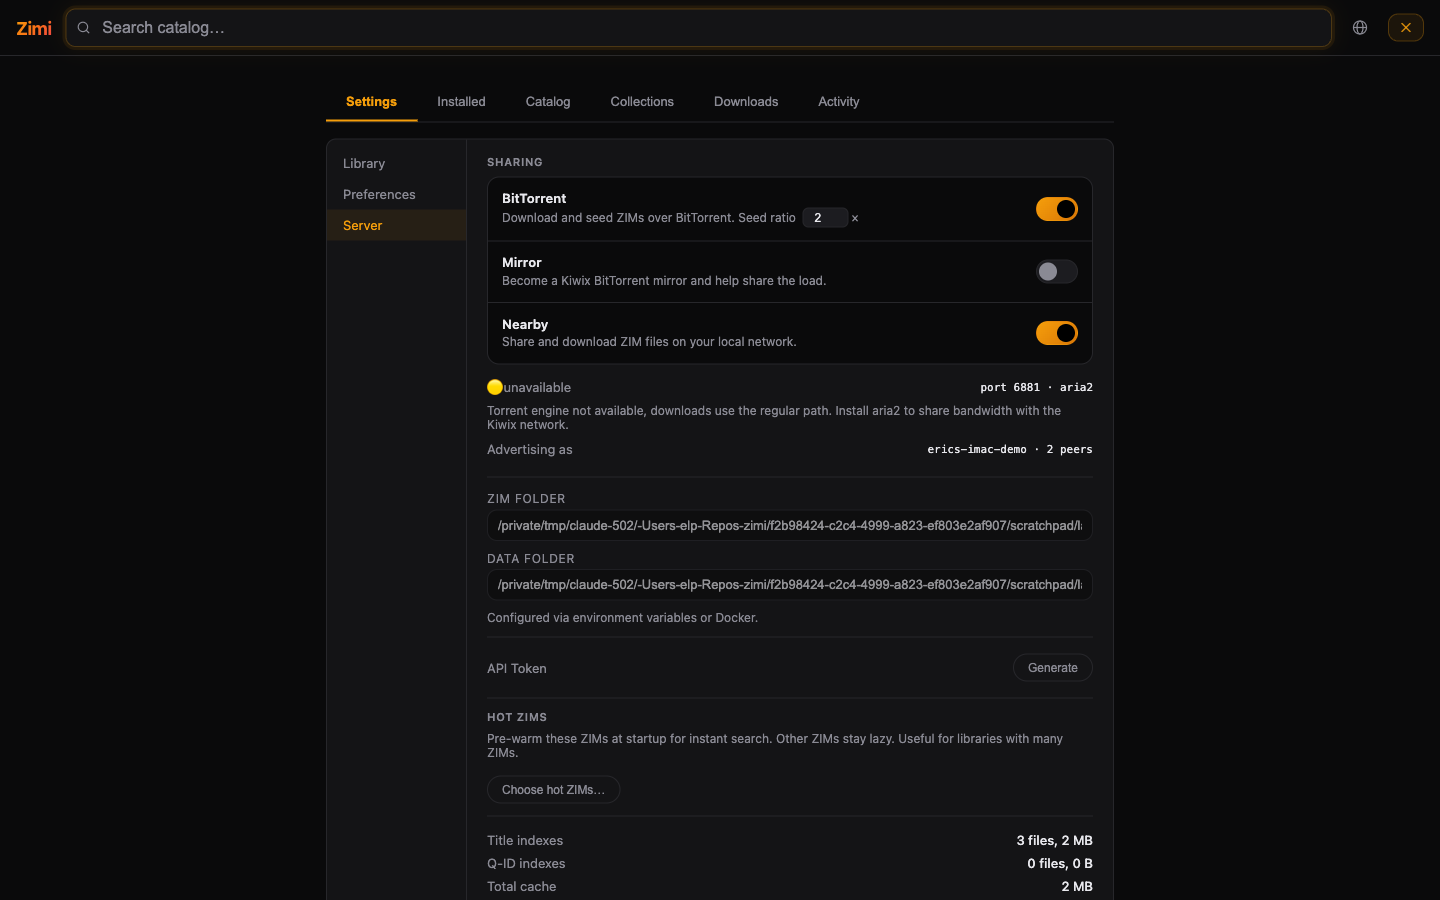
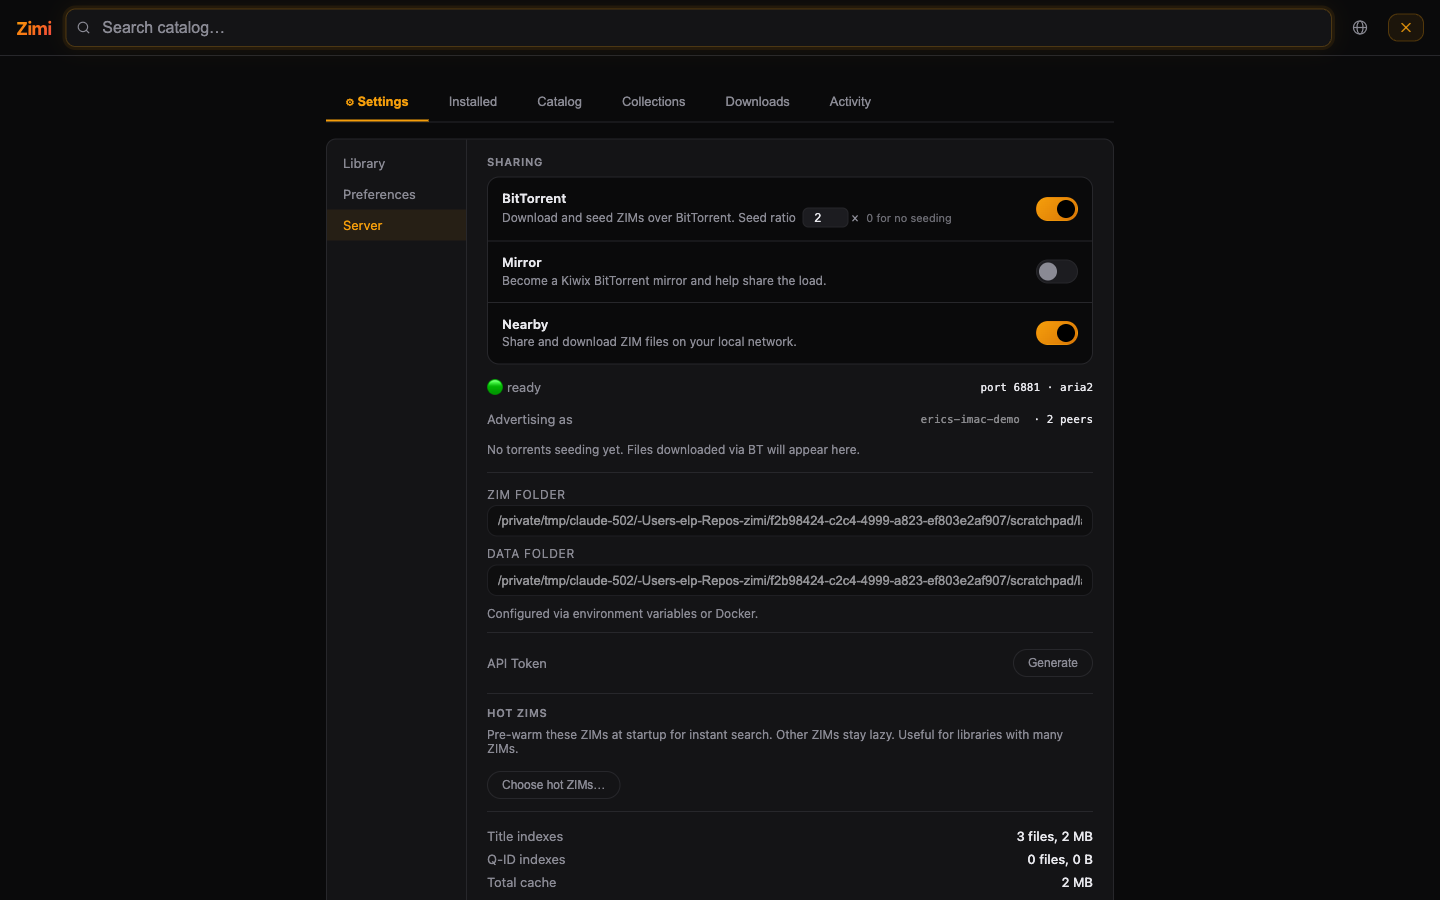
Settings greets you: default entry tab with gear glyph; README trims
- Manage opens on the ⚙︎ Settings tab (library tabs one tap away)
- README: 'Everyone means everyone' bullet dropped per Eric; env table
  slims to 5 essential vars + a collapsed Advanced section (legacy
  per-feature vars removed from docs entirely)
- Screenshots: sharing.png retaken with BT green (aria2 now on the Mac)
  and Nearby on; browse-library.png retaken with live peer pills

diff --git a/zimi/static/app.js b/zimi/static/app.js
@@ -2850,6 +2850,7 @@ function enterManage(e) {
     _manageSavedReader = null;
   }
   mode = 'manage';
+  manageTab = 'settings';  // settings greet you; library tabs one tap away
   currentSource = null;
   readerSource = null;
   sourceAutoReader = false;
@@ -4705,14 +4706,14 @@ async function renderManage() {
     '<div class="manage-wrap">' +
     '<div class="manage-tabs">' +
       // Settings lives in its own first tab on every viewport.
-      '<button class="manage-tab manage-tab-settings' + (manageTab === 'settings' ? ' active' : '') + '" data-tab="settings" onclick="switchManageTab(\'settings\')">' + tH('ms_settings_tab') + '</button>' +
+      '<button class="manage-tab manage-tab-settings' + (manageTab === 'settings' ? ' active' : '') + '" data-tab="settings" onclick="switchManageTab(\'settings\')">\u2699\ufe0e ' + tH('ms_settings_tab') + '</button>' +
       '<button class="manage-tab' + (manageTab === 'installed' ? ' active' : '') + '" data-tab="installed" onclick="switchManageTab(\'installed\')">' + tH('installed_tab') + '</button>' +
       '<button class="manage-tab' + (manageTab === 'browse' ? ' active' : '') + '" data-tab="browse" onclick="switchManageTab(\'browse\')">' + tH('catalog_tab') + '</button>' +
       '<button class="manage-tab' + (manageTab === 'collections' ? ' active' : '') + '" data-tab="collections" onclick="switchManageTab(\'collections\')">' + tH('collections_tab') + '</button>' +
       '<button class="manage-tab' + (manageTab === 'downloads' ? ' active' : '') + '" data-tab="downloads" onclick="switchManageTab(\'downloads\')">' + tH('downloads') + '<span id="dl-tab-badge" class="dl-tab-badge" style="display:none"></span></button>' +
       '<button class="manage-tab' + (manageTab === 'history' ? ' active' : '') + '" data-tab="history" onclick="switchManageTab(\'history\')">' + tH('activity_tab') + '</button>' +
     '</div>' +
-'<div id="manage-status" class="manage-settings">' +
+'<div id="manage-status" class="manage-settings' + (manageTab === 'settings' ? ' as-tab-active' : '') + '">' +
       '<div class="ms-nav" id="ms-nav">' +
         '<button class="ms-nav-item active" data-ms="library" onclick="switchMs(\'library\')">' + tH('ms_library') + '</button>' +
         '<button class="ms-nav-item" data-ms="preferences" onclick="switchMs(\'preferences\')">' + tH('ms_display') + '</button>' +

diff --git a/README.md b/README.md
@@ -18,7 +18,6 @@ Zimi is
 - **A mesh.** Your machines find each other and pass ZIMs around at LAN speed, no internet needed.
 - **A good citizen.** Downloads arrive over BitTorrent and seed back to the Kiwix network. One switch makes you a full mirror.
 - **Fresh daily.** Picture of the Day, On This Day, a word, a quote, a comic, a live almanac sky. All computed locally, forever.
-- **Everyone means everyone.** 100/100 accessibility, keyboard-first, screen readers welcome.
 - **Anywhere.** Docker, pip, a native macOS app, or your phone as a PWA.
 - **For humans and machines.** Web UI, JSON API, MCP server for AI agents.
 
@@ -127,23 +126,29 @@ Seeding needs no router setup. Forwarding your BitTorrent port (default 6881) le
 
 ### Environment Variables
 
+Most people set nothing: every setting below has a sensible default or lives in the UI.
+
 | Variable | Default | Description |
 |----------|---------|-------------|
 | `ZIM_DIR` | `/zims` | Path to ZIM files (scanned for `*.zim` on startup) |
 | `ZIMI_DATA_DIR` | `/config` (Docker) or `$ZIM_DIR/.zimi` | Cache, indexes, and settings. Mount separately in Docker. |
-| `ZIMI_MANAGE` | `1` | Library manager. `0` to disable. |
 | `ZIMI_MANAGE_PASSWORD` | _(none)_ | Protect library management |
-| `ZIMI_AUTO_UPDATE` | `0` | Auto-update ZIMs (`1` to enable) |
+| `ZIMI_BT` | `on` | BitTorrent: `off`, or `on,port=6881,ratio=2,up=2048,mirror=off`. Fields you set are locked in the UI; fields you leave out stay UI-controlled. `ratio=0` means never seed. |
+| `ZIMI_NEARBY` | `off` | LAN sharing: `off`, or `on,name=my-zimi,public=off`. Controls serving *and* fetching between your Zimi devices. |
+
+<details>
+<summary>Advanced</summary>
+
+| Variable | Default | Description |
+|----------|---------|-------------|
+| `ZIMI_MANAGE` | `1` | Library manager. `0` to disable entirely. |
+| `ZIMI_AUTO_UPDATE` | `0` | Auto-update ZIMs (`1` to enable; also a UI setting) |
 | `ZIMI_UPDATE_FREQ` | `weekly` | `daily`, `weekly`, or `monthly` |
 | `ZIMI_RATE_LIMIT` | `60` | Requests/min/IP. `0` to disable. |
-| `ZIMI_BT` | `on` | BitTorrent, one compact var: `off`, or `on,port=6881,ratio=2,up=2048,mirror=off`. Every field is optional; a field you set is locked in the UI, fields you leave out stay UI-controlled. `ratio=0` means never seed. |
-| `ZIMI_NEARBY` | `off` | LAN sharing, same style: `off`, or `on,name=my-zimi,public=off`. Controls serving *and* fetching between your Zimi devices. |
-| `ZIMI_SEED_RATIO` | `2.0` | Stop seeding once ratio (uploaded ÷ downloaded) reaches this. |
-| `ZIMI_PEER_DISCOVERY` | `1` | Advertise + browse `_zimi._tcp.local` over mDNS. `0` disables. |
-| `ZIMI_PEER_NAME` | _(hostname)_ | Friendly name advertised to LAN peers. Defaults to `zimi-<hostname>`. |
-| `ZIMI_MIRROR` | `0` | Enable public-mirror mode: uncapped ratio + raised upload bandwidth. `1` to enable. |
-| `ZIMI_MIRROR_RATIO` | `1000` | Mirror-mode ratio cap (effectively uncapped). |
-| `ZIMI_MIRROR_UPLOAD_KB` | `10240` | Mirror-mode upload bandwidth in KB/s. |
+| `ZIMI_API_TOKEN` | _(none)_ | Pin the API token instead of generating in the UI |
+| `ZIMI_HOT_ZIMS` | _(none)_ | Comma-separated ZIM names to pre-warm at startup |
+
+</details>
 
 ## API
 